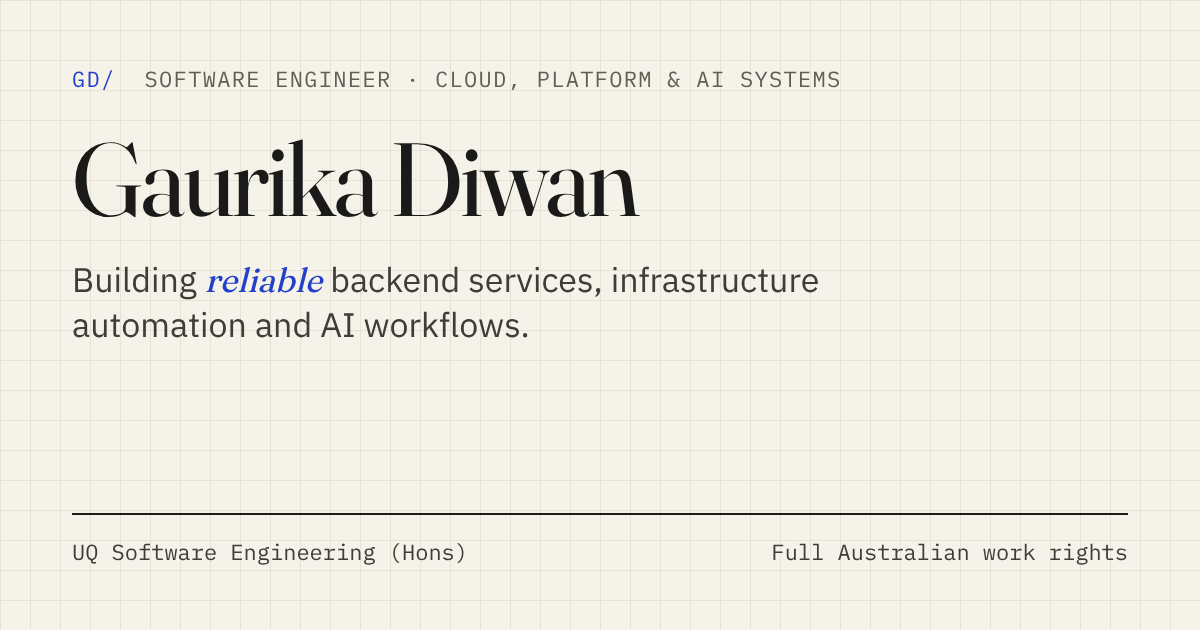
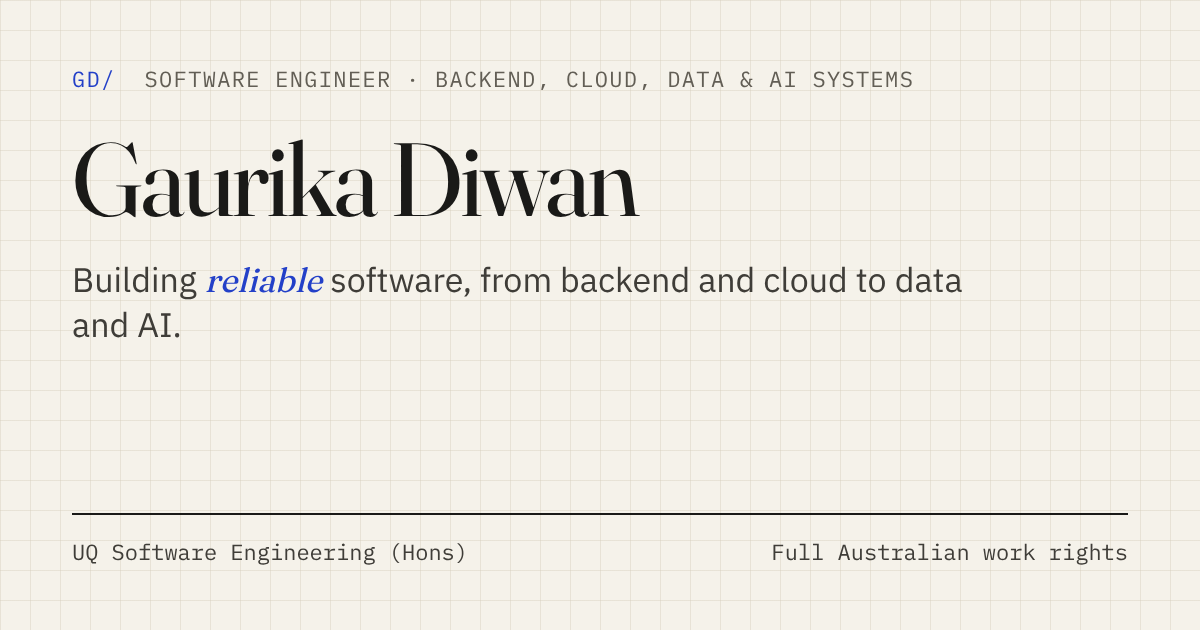
Broaden positioning, rewrite NetPilot drift and MoviePicker role, remove disclaimers
Claude-Session: https://claude.ai/code/session_01EcbqVjDh2decYeNhfRfp6D

Changed region(s): [[0.0925, 0.4222, 0.8017, 0.5429], [0.37, 0.0905, 0.7708, 0.1508]]

diff --git a/app/about/page.tsx b/app/about/page.tsx
@@ -8,7 +8,7 @@ import { SmartLink } from "@/components/SmartLink";
 export const metadata = pageMetadata({
   title: "About",
   description:
-    "About Gaurika Diwan: a software engineer working across backend systems, cloud and infrastructure automation, and applied ML.",
+    "About Gaurika Diwan: a software engineer working across backend and web applications, cloud and infrastructure automation, data and applied AI.",
   path: "/about/",
 });
 
@@ -17,7 +17,7 @@ export default function AboutPage() {
     <>
       <PageHeader
         eyebrow="About"
-        title="Software engineer, working where infrastructure meets intelligence."
+        title="Software engineer, building dependable systems end to end."
         lede={<p>A short version of how I got here and what I want to build next.</p>}
       />
 
@@ -40,10 +40,14 @@ export default function AboutPage() {
           </p>
           <h2>What I want to build next</h2>
           <p>
-            I&apos;m drawn to platform and cloud engineering, and to the growing overlap between that work and AI systems.
-            Agents and language models are becoming another kind of client for infrastructure APIs. I want to build the layer
-            that makes that safe, with narrow permissions, typed interfaces, audit trails and humans approving anything that
-            changes state. My side project{" "}
+            My interests are deliberately broad: backend and full-stack development, cloud and platform engineering, DevOps and
+            infrastructure automation, data engineering, and AI/ML systems. What connects them is the same goal of building
+            software that is reliable, observable and easy for the next engineer to understand.
+          </p>
+          <p>
+            One area I find especially interesting is where infrastructure meets AI. Agents and language models are becoming
+            another kind of client for infrastructure APIs, and they need narrow permissions, typed interfaces, audit trails
+            and humans approving anything that changes state. My side project{" "}
             <SmartLink href="/projects/netpilot/">NetPilot</SmartLink> is a small, working version of that idea.
           </p>
           <h2>How I approach engineering</h2>
@@ -57,13 +61,12 @@ export default function AboutPage() {
               <strong>Make it reproducible.</strong> Pipelines, environments and deployments should give the same result twice.
             </li>
             <li>
-              <strong>Write down the limitations.</strong> The case studies on this site say what is unfinished, because that
-              is part of an honest engineering record.
+              <strong>Be clear about who built what.</strong> Most real software is a team effort, so the case studies on
+              this site separate my own contributions from the team&apos;s.
             </li>
           </ul>
           <p>
-            Outside of my core work, I was a Women in Engineering Student Leader at UQ. I&apos;m using this site to publish
-            engineering notes as I learn.
+            Outside of my core work, I was a Women in Engineering Student Leader at UQ.
           </p>
         </div>
 
@@ -79,7 +82,7 @@ export default function AboutPage() {
               </div>
               <div>
                 <dt className="font-medium text-ink">Focus</dt>
-                <dd className="text-ink-2">Backend services, cloud and platform automation, AI systems</dd>
+                <dd className="text-ink-2">Backend and full-stack software, cloud and platform automation, data and AI systems</dd>
               </div>
               <div>
                 <dt className="font-medium text-ink">Work rights</dt>

diff --git a/content/site.ts b/content/site.ts
@@ -7,16 +7,16 @@
 export const site = {
   name: "Gaurika Diwan",
   role: "Software Engineer",
-  focus: "Cloud, Platform & AI Systems",
-  title: "Gaurika Diwan · Software Engineer, Cloud, Platform & AI Systems",
+  focus: "Backend, Cloud, Data & AI Systems",
+  title: "Gaurika Diwan · Software Engineer, Backend, Cloud, Data & AI Systems",
   description:
-    "Gaurika Diwan is a software engineer working on backend services, cloud and infrastructure automation, and AI-assisted workflows. University of Queensland Software Engineering (Honours) graduate with full Australian work rights.",
+    "Gaurika Diwan is a software engineer who builds backend services, web applications, cloud and infrastructure automation, data pipelines and AI-enabled workflows. University of Queensland Software Engineering (Honours) graduate with full Australian work rights.",
   // Change this if the site is deployed somewhere else (also see README).
   url: process.env.NEXT_PUBLIC_SITE_URL ?? "https://gaurikadiwan.github.io",
   locale: "en_AU",
   workRights: "Full Australian work rights (Subclass 485 visa)",
   availability:
-    "Open to Software, Cloud, DevOps, Platform and AI Engineering roles in Australia.",
+    "Open to technology opportunities across Australia, spanning software engineering, cloud and infrastructure, platform automation, AI/ML, data engineering, AI/tech consulting, and other areas aligned with my experience.",
 } as const;
 
 export const links = {

diff --git a/app/resume/page.tsx b/app/resume/page.tsx
@@ -9,7 +9,7 @@ import { SmartLink } from "@/components/SmartLink";
 export const metadata = pageMetadata({
   title: "Resume",
   description:
-    "Resume of Gaurika Diwan, Software Engineer (Cloud, Platform & AI Systems). Summary, skills, experience and education, with a PDF download.",
+    "Resume of Gaurika Diwan, Software Engineer (Backend, Cloud, Data & AI Systems). Summary, skills, experience and education, with a PDF download.",
   path: "/resume/",
 });
 
@@ -23,7 +23,7 @@ export default function ResumePage() {
           <p>
             Software Engineering (Honours) graduate from the University of Queensland, with hands-on experience building
             cloud-native applications, backend systems and infrastructure automation using Azure, AWS, Python, Docker and
-            CI/CD. Seeking Cloud, DevOps, Platform and Software Engineering roles. {site.workRights}.
+            CI/CD. {site.availability} {site.workRights}.
           </p>
         }
       >

diff --git a/app/contact/page.tsx b/app/contact/page.tsx
@@ -7,7 +7,7 @@ import { SmartLink } from "@/components/SmartLink";
 
 export const metadata = pageMetadata({
   title: "Contact",
-  description: "Contact Gaurika Diwan by email or LinkedIn about software, cloud, platform, DevOps and AI engineering roles in Australia.",
+  description: "Contact Gaurika Diwan by email or LinkedIn about technology roles in Australia, across software, cloud, data and AI.",
   path: "/contact/",
 });
 
@@ -26,8 +26,8 @@ export default function ContactPage() {
         title="Let's talk."
         lede={
           <p>
-            {site.availability} {site.workRights}. I&apos;m also happy to hear from engineers who want to talk about
-            platform automation or AI tooling.
+            {site.availability} {site.workRights}. I&apos;m also happy to hear from engineers who want to talk shop
+            about anything I&apos;ve built.
           </p>
         }
       />

diff --git a/scripts/og.html b/scripts/og.html
@@ -14,8 +14,8 @@ p{font-size:34px;line-height:1.3;color:#3f3d38;margin:26px 0 0;max-width:900px}
 p em{font-family:F;color:#2340c8}
 .foot{margin-top:auto;display:flex;justify-content:space-between;border-top:2px solid #1a1a18;padding-top:22px;font-family:M;font-size:22px;color:#3f3d38}
 </style></head><body><div class="wrap">
-<div class="eb"><b>gd/</b> &nbsp;Software Engineer · Cloud, Platform &amp; AI Systems</div>
+<div class="eb"><b>gd/</b> &nbsp;Software Engineer · Backend, Cloud, Data &amp; AI Systems</div>
 <h1>Gaurika Diwan</h1>
-<p>Building <em>reliable</em> backend services, infrastructure automation and AI workflows.</p>
+<p>Building <em>reliable</em> software, from backend and cloud to data and AI.</p>
 <div class="foot"><span>UQ Software Engineering (Hons)</span><span>Full Australian work rights</span></div>
 </div></body></html>

diff --git a/app/page.tsx b/app/page.tsx
@@ -33,8 +33,8 @@ export default function HomePage() {
             id="hero-title"
             className="rise rise-1 mt-6 text-[2.75rem] leading-[1.02] font-normal tracking-[-0.025em] text-ink sm:text-[3.6rem] lg:text-[4.35rem]"
           >
-            Building <em className="font-light text-accent">reliable</em> backend services, infrastructure automation
-            and AI workflows.
+            Building <em className="font-light text-accent">reliable</em> software, from backend and cloud to data
+            and AI.
           </h1>
           <p className="rise rise-2 mt-7 max-w-[36rem] text-[1.1rem] leading-relaxed text-ink-2 md:text-[1.2rem]">
             I&apos;m a University of Queensland Software Engineering (Honours) graduate, now working as a graduate

diff --git a/app/projects/page.tsx b/app/projects/page.tsx
@@ -20,9 +20,8 @@ export default function ProjectsPage() {
         title="Case studies"
         lede={
           <p>
-            Each case study covers the problem, my role, the design decisions, how it was tested and what is still
-            unfinished. Every page says where its details come from: public source code, a private course repository, or a
-            summary when the code isn&apos;t available.
+            Each case study covers the problem, my role, the architecture and design decisions, how it was tested and the
+            outcome. Where the source code is public, it is linked.
           </p>
         }
       />

diff --git a/components/ProjectCard.tsx b/components/ProjectCard.tsx
@@ -6,9 +6,10 @@ import { SmartLink } from "./SmartLink";
 export function EvidenceBadge({ evidence }: { evidence: Project["evidence"] }) {
   const label = {
     "public-repo": "Public source",
-    "private-repo": "Private course repository",
-    summary: "Summary · source not public",
+    "private-repo": "Private repository",
+    summary: "",
   }[evidence];
+  if (!label) return null;
   return <span className="font-mono text-[0.7rem] text-ink-3">{label}</span>;
 }
 

diff --git a/app/projects/[slug]/page.tsx b/app/projects/[slug]/page.tsx
@@ -71,9 +71,7 @@ export default async function ProjectPage({ params }: { params: Promise<Params> 
                   {project.repo.replace("https://", "")}
                 </SmartLink>
               ) : (
-                project.evidence === "private-repo"
-                  ? "Private course repository, so it isn't linked."
-                  : "Not public."
+                "Private repository"
               )}
             </dd>
           </div>

diff --git a/content/projects/moviepicker.md b/content/projects/moviepicker.md
@@ -1,11 +1,10 @@
 ---
 title: MoviePicker
 tagline: A group movie picker. Everyone in a session swipes on films, and when enough people like the same one, every device shows the match at the same moment.
-kind: Team project · CSSE6400 Software Architecture, UQ
+kind: Team project · Software architecture
 period: Feb to May 2025
-team: Team of six
 problem: Choosing a film as a group means scrolling across several streaming services and rarely agreeing. The system has to collect everyone's choices and announce a match to every device at once.
-contribution: Built much of the React frontend, including sign-up and login, session creation with PIN sharing, joining a group, the swiping screen and the match overlay, and co-wrote the architecture decision records for those parts.
+contribution: Built key React user flows (authentication screens, session creation and PIN sharing, PIN-based joining, the swiping screen and the match overlay), connected them to the team's Flask API, and co-authored the architecture decision records for the matching UI, session creation and swiping screen.
 stack: [React, Flask, PostgreSQL, WebSockets, AWS ECS, AWS Lambda, SNS, Terraform, k6]
 evidence: private-repo
 featured: true
@@ -33,46 +32,48 @@ diagram:
 
 ## Overview
 
-MoviePicker is a web app for choosing a film as a group. Someone creates a session, chooses genres and streaming platforms, and shares a short PIN. Everyone who joins swipes right or left on films pulled from The Movie Database (TMDB). Once enough of the group likes the same film, every device in the session shows the match.
+MoviePicker is a web app for choosing a film as a group. Someone creates a session, chooses genres and streaming platforms, and shares a short PIN. Everyone who joins swipes right or left on films pulled from The Movie Database (TMDB). Once enough of the group likes the same film, every device in the session shows the match at the same moment.
 
-It was built by a team of six for the University of Queensland course CSSE6400 Software Architecture.
+## The engineering problem
 
-## Problem
-
-The hard part of MoviePicker isn't the swiping. It's announcing a match to every person at the same moment, with several sessions running at once, on infrastructure that can scale.
+The hard part of MoviePicker isn't the swiping. It's announcing a match to every person in a session at once, with many sessions running in parallel, on cloud infrastructure that can scale. That requirement shaped the whole architecture: an event-driven backend, real-time connections to every client, and a frontend built to react to events rather than repeatedly ask the server for updates.
 
 ## My role
 
-My work was mainly on the **React frontend** and on the decisions behind it:
+MoviePicker was built collaboratively, with team members owning different parts of the frontend, backend and infrastructure. My contributions centred on the React frontend and the architectural decisions behind it. Working with the team, I helped implement the key user flows and document why they were designed the way they were.
 
-- The sign-up and login pages, including the redirect from sign-up back to login and a consistent header.
-- **Session creation:** choosing genres and platforms, generating and displaying the session PIN, and the flow for sharing it.
-- **Joining a group** with a PIN, with back navigation and fixes to the flow between screens.
-- The **swiping screen**, managing the loaded films, the current film, likes and loading and error states.
-- The **match overlay** that appears when the group agrees on a film.
+- **Authentication and user flows.** Contributed to the React sign-up and login interfaces, including the redirect from sign-up back to login and a consistent application header.
+- **Session creation and sharing.** Implemented the frontend for selecting genres and streaming platforms, creating a session, generating and displaying the session PIN, and sharing it with other participants.
+- **Group joining.** Developed the PIN-based joining flow, including navigation between screens and fixes to the user journey.
+- **Collaborative film selection.** Contributed to the swiping interface: loading films, tracking the current film, handling likes, and managing loading and error states.
+- **Match experience.** Implemented the match overlay that appears when the group agrees on a film.
+- **Integration with backend services.** Connected the joining and swiping screens to the team's Flask REST API, for example looking up a session by its PIN and loading the film list for a session, using environment-based API configuration so the same build works locally and in the cloud.
+- **Software architecture.** Co-authored three architecture decision records (ADRs), covering the matching UI components, session creation and the swiping screen.
 
-I also wrote or co-wrote the architecture decision records (ADRs) for the matching UI components, session creation and the swiping screen.
+## Architecture decisions I co-authored
 
-## Technical approach
+The team recorded every significant decision as an ADR: the context, the options, the decision and its consequences. The three I worked on define how the frontend is structured and how it plugs into the real-time backend.
 
-The team recorded its significant decisions as ADRs. The ones that shape the system are:
+**Matching UI components (ADR 003).** A match can arrive at any moment while someone is swiping, and every user in the session must see the same thing. The decision was to split the match experience into two components with clear responsibilities: `MatchOverlay`, which announces the match and shows the film's details, and `PostMatchOptions`, which handles what the user does next, such as keeping swiping or viewing matches. Separating notification from follow-up actions keeps each component simple and reusable, at the cost of coordinating state between them. That trade-off is recorded in the ADR.
 
-- **Event-driven architecture.** A match is an event that has to reach many clients at once, so the system publishes match events instead of having each client ask whether anything has changed.
-- **WebSockets rather than polling.** Polling would add delay and send wasted requests. Instead, each client keeps a persistent connection through an AWS WebSocket API Gateway, and a Lambda function pushes match results using the connection IDs.
-- **Lambda with SNS.** When the API detects a match, a Lambda function publishes the event to an SNS topic. A listener Lambda then looks up the film from TMDB and notifies the session.
-- **Short-lived, alphanumeric session PINs.** Using letters as well as digits makes PINs harder to guess, and PINs expire after five minutes.
-- **Static frontend hosting on S3**, with the Flask API running in containers on ECS behind a load balancer, with autoscaling.
+**Session creation (ADR 004).** Creating a session involves several user preferences, a REST call to create the session, a unique PIN, and a real-time connection for later updates. The component keeps local UI state separate from session data, uses one central mapping between the genre and platform names users see and the IDs the TMDB API expects, and reads its API endpoints from environment configuration. The ADR notes the main risk: frontend and backend IDs must stay in sync.
+
+**Swiping screen (ADR 007).** This is the core of the app. The screen loads films in batches based on the session's preferences, keeps a buffer of pre-loaded films so swiping isn't interrupted, and listens on the WebSocket connection for match events. It explicitly handles loading, empty and error states, including fallbacks for missing images. The ADR also records known trade-offs and mitigations: many separate pieces of component state, the memory used by pre-loaded films, and the need for WebSocket reconnection logic.
+
+## How the system works
+
+The diagram above shows the path of a match through the system the team designed:
+
+- **Event-driven architecture.** A match is treated as an event to be published, not something each client has to poll for. This keeps the parts of the system decoupled, and lets many sessions run at the same time.
+- **WebSockets rather than polling.** Each client holds a persistent connection through an AWS API Gateway WebSocket API. When a match happens, a Lambda function pushes the result to every connection in that session. This avoids the delay and wasted requests that polling would cause.
+- **Lambda with SNS.** When the Flask API detects that likes for a film have reached the session's threshold, an emit Lambda publishes the event to an SNS topic. A listener Lambda looks up the film from TMDB and notifies the session's connections.
+- **Short-lived alphanumeric PINs.** Mixing letters and digits makes session PINs harder to guess, and they expire after five minutes.
+- **Cloud deployment.** The React frontend is hosted as a static site on S3. The Flask API runs in containers on ECS behind a load balancer, with autoscaling, and stores users, sessions, likes and matches in PostgreSQL on RDS.
 
 ## Testing and deployment
 
-The infrastructure is defined in Terraform: an ECS cluster and service with autoscaling, a load balancer, RDS PostgreSQL, Lambda functions, an SNS topic and an ECR repository. A deploy script builds the whole stack. The repository also includes load tests written with k6 to check how the system scales.
-
-## Results and limitations
-
-The team deployed the application to AWS and demonstrated its features end to end. One known gap was that Google sign-in didn't work fully on the deployed version, and the team chose to leave it unfinished rather than ship it broken.
-
-The repository belongs to the course and is private, so this page summarises the design rather than linking to the code.
+The team defined the infrastructure as code in Terraform: the ECS cluster and service with autoscaling, a load balancer, RDS PostgreSQL, Lambda functions, an SNS topic and an ECR container registry. A single deploy script builds and provisions the whole stack. The team also wrote load tests in k6 to check how the system behaves as the number of users grows.
 
 ## What I learned
 
-Writing an ADR before building a screen made the frontend easier to reason about. Decisions like *"how does the swiping screen hear about a match?"* had already been answered at the architecture level, so the component only needed to listen for an event.
+Writing an ADR before building a screen made the frontend much easier to reason about. Questions like *"how does the swiping screen hear about a match?"* had already been answered at the architecture level, so the component only needed to listen for an event. It also showed me how much smoother collaboration becomes when decisions are written down where the whole team can review them.

diff --git a/content/projects/netpilot.md b/content/projects/netpilot.md
@@ -88,7 +88,26 @@ The diagram above shows the request path. Two tools exist today:
 | `network_inventory` | `read` | Lists simulated nodes, filterable by site and status |
 | `config_validate` | `read` | Compares a node's current config with its recorded baseline and reports drift |
 
-The seed script creates 15 nodes across three simulated sites. It then deliberately drifts three of them: a rolled-back firmware version, a weakened TLS minimum version and debug logging left on. This gives the drift check something real to find.
+### The simulated network and drift detection
+
+To test the tools without touching real infrastructure, NetPilot generates its own small network. A seed script creates 15 nodes, such as 5G base stations (gNBs), routers and gateways, spread across three simulated sites, and stores them in the database.
+
+Every node gets two copies of its configuration:
+
+- A **baseline**, which is the approved, expected configuration: firmware `24.3.1`, a minimum TLS version of `1.2`, `INFO`-level logging and a connection limit of 512.
+- A **current** configuration, which represents what is actually running on the device.
+
+On a healthy node, the two match. In real networks they often don't, because of manual fixes, partial rollbacks or settings left behind after troubleshooting. This gap is called **configuration drift**, and it is a common cause of outages and security exposure.
+
+The seed script deliberately introduces three realistic examples of drift:
+
+| Node change | Why it matters |
+| --- | --- |
+| Firmware rolled back to `23.9.0` | The device may be missing fixes that the rest of the fleet has |
+| Minimum TLS lowered from `1.2` to `1.0` | Weaker encryption is accepted, which is a security risk |
+| Logging left at `DEBUG` instead of `INFO` | Noisy logs, extra load and possible leakage of sensitive detail |
+
+The `config_validate` tool then checks a node by comparing every baseline setting with the current value. It returns whether the node has drifted, and lists each deviation with the setting, the expected value and the actual value. Because the seeded cases are known in advance, the tests can prove that the check catches real drift and reports nothing on a healthy node.
 
 ## Technology choices
 
@@ -100,9 +119,9 @@ The seed script creates 15 nodes across three simulated sites. It then deliberat
 
 The test suite exercises the API end to end against seeded data. It covers authentication failures, tool listing, filtering by site and status, detection of a known drift case, a clean node reporting no drift, and the `422` and `404` paths. There are 10 tests, and they pass when run locally.
 
-## Results and limitations
+## Current scope
 
-NetPilot is at the end of its first milestone. Everything is read-only, and the tools are served over plain HTTP using MCP-style naming rather than the MCP protocol itself. Authentication uses a single configured token with a fixed set of scopes. That suits a demonstration, but it is not a production identity model.
+The first milestone is complete. All tools are read-only, and they are served over HTTP using MCP-style tool definitions, with the MCP transport itself planned for a later stage. Authentication uses a configured token mapped to a set of scopes, which keeps the permission model easy to test.
 
 ## What's next
 

diff --git a/content/projects/alzheimers-classification.md b/content/projects/alzheimers-classification.md
@@ -65,18 +65,12 @@ return self.mlp_head(torch.mean(encoded, dim=1))
 
 Training ran into memory problems with the Adam optimiser, so I switched to stochastic gradient descent with a learning rate of 0.01. The report also covers preprocessing choices such as resizing, augmentation and normalisation, and why each matters for medical images.
 
-## Results and limitations
+## Current status
 
-This project was a starting point, not a finished model. The architecture was written but never trained end to end on the brain scans:
+The data pipeline and the Vision Transformer architecture are written. Training the full ViT on the ADNI scans end to end is the next step, so this page doesn't quote an accuracy figure. Two changes are needed first: transposing the patch embeddings to a `(batch, patches, dim)` shape, and using an encoder-only transformer, because `nn.Transformer` expects both a source and a target sequence.
 
-- The final training script trains a small feed-forward network on synthetic data, not the Vision Transformer on the ADNI images.
-- The prediction script uses an ImageNet-pretrained ResNet-18 that was never trained on the scans.
-- The model code has issues that would stop it from running. The patch embeddings need transposing to a `(batch, patches, dim)` shape, and `nn.Transformer` expects both a source and a target, whereas a ViT only needs the encoder.
+## Next steps
 
-Because of that, the accuracy curves in the report don't measure this model, so I don't quote an accuracy figure for this project.
-
-## What I'd do differently
-
-I would fix the embedding shape, use `nn.TransformerEncoder`, and train the ViT on the ADNI loader. I would then evaluate it on the held-out test set and report accuracy with a confusion matrix. Because each patient contributes 20 slices, I would also split the data by patient so that slices from one person can't appear in both training and test data.
+With those fixes in place, using `nn.TransformerEncoder`, I would train the ViT on the ADNI loader. I would then evaluate it on the held-out test set and report accuracy with a confusion matrix. Because each patient contributes 20 slices, I would also split the data by patient so that slices from one person can't appear in both training and test data.
 
 The biggest lesson was to verify an ML result end to end before reporting it, by checking that the model being evaluated is the one that was trained on the data being described. I now apply that habit to everything I build.
